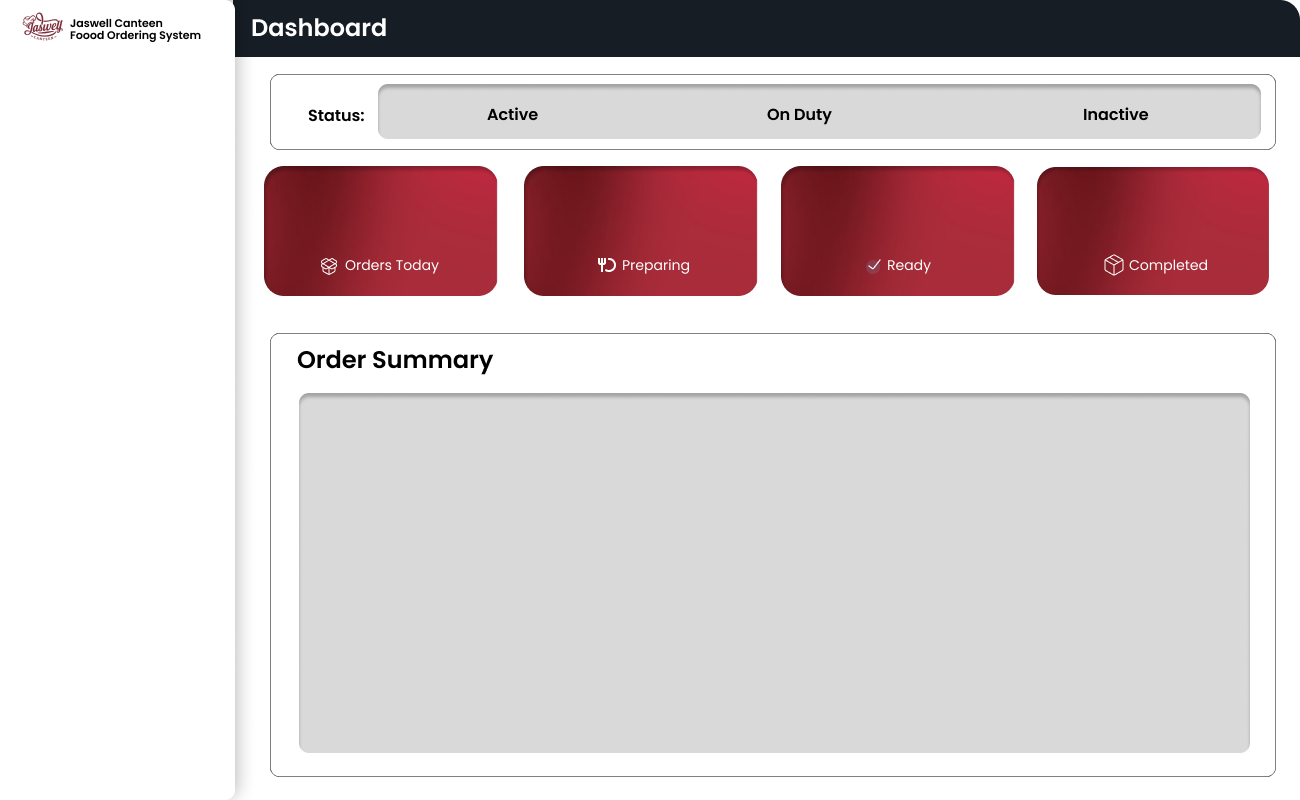
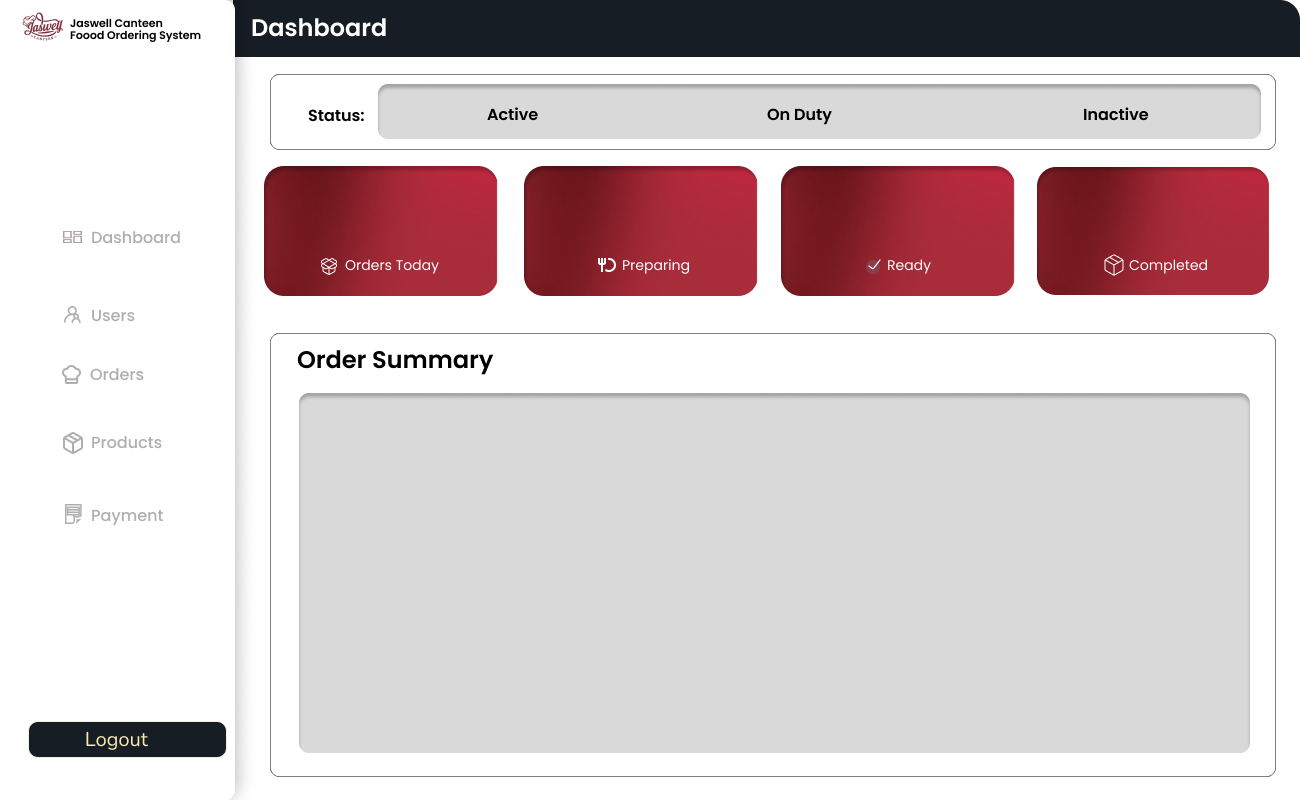
still in progress employeee

diff --git a/ADSFinalProject/src/adsfinalproject/EmployeeDashboard.java b/ADSFinalProject/src/adsfinalproject/EmployeeDashboard.java
@@ -195,8 +195,7 @@ public class EmployeeDashboard extends javax.swing.JFrame {
         pnlCustomer.setLayout(pnlCustomerLayout);
         pnlCustomerLayout.setHorizontalGroup(
             pnlCustomerLayout.createParallelGroup(javax.swing.GroupLayout.Alignment.LEADING)
-            .addGroup(pnlCustomerLayout.createSequentialGroup()
-                .addGap(230, 230, 230)
+            .addGroup(javax.swing.GroupLayout.Alignment.TRAILING, pnlCustomerLayout.createSequentialGroup()
                 .addComponent(jLabel5, javax.swing.GroupLayout.DEFAULT_SIZE, javax.swing.GroupLayout.DEFAULT_SIZE, Short.MAX_VALUE)
                 .addContainerGap())
         );
@@ -215,8 +214,7 @@ public class EmployeeDashboard extends javax.swing.JFrame {
         pnlPayment.setLayout(pnlPaymentLayout);
         pnlPaymentLayout.setHorizontalGroup(
             pnlPaymentLayout.createParallelGroup(javax.swing.GroupLayout.Alignment.LEADING)
-            .addGroup(pnlPaymentLayout.createSequentialGroup()
-                .addGap(230, 230, 230)
+            .addGroup(javax.swing.GroupLayout.Alignment.TRAILING, pnlPaymentLayout.createSequentialGroup()
                 .addComponent(jLabel2, javax.swing.GroupLayout.DEFAULT_SIZE, javax.swing.GroupLayout.DEFAULT_SIZE, Short.MAX_VALUE)
                 .addContainerGap())
         );
@@ -235,8 +233,7 @@ public class EmployeeDashboard extends javax.swing.JFrame {
         pnlDashboard.setLayout(pnlDashboardLayout);
         pnlDashboardLayout.setHorizontalGroup(
             pnlDashboardLayout.createParallelGroup(javax.swing.GroupLayout.Alignment.LEADING)
-            .addGroup(pnlDashboardLayout.createSequentialGroup()
-                .addGap(230, 230, 230)
+            .addGroup(javax.swing.GroupLayout.Alignment.TRAILING, pnlDashboardLayout.createSequentialGroup()
                 .addComponent(jLabel4, javax.swing.GroupLayout.DEFAULT_SIZE, javax.swing.GroupLayout.DEFAULT_SIZE, Short.MAX_VALUE)
                 .addContainerGap())
         );
@@ -249,7 +246,7 @@ public class EmployeeDashboard extends javax.swing.JFrame {
 
         pnlOrder.setBackground(new java.awt.Color(255, 255, 255));
 
-        jLabel6.setIcon(new javax.swing.ImageIcon(getClass().getResource("/design/aorderr.png"))); // NOI18N
+        jLabel6.setIcon(new javax.swing.ImageIcon(getClass().getResource("/design/orders.png"))); // NOI18N
 
         pnlCreateOrder.setBackground(new java.awt.Color(255, 255, 255));
 
@@ -304,7 +301,7 @@ public class EmployeeDashboard extends javax.swing.JFrame {
 
         pnlProduct.setBackground(new java.awt.Color(255, 255, 255));
 
-        jLabel7.setIcon(new javax.swing.ImageIcon(getClass().getResource("/design/AProduct.png"))); // NOI18N
+        jLabel7.setIcon(new javax.swing.ImageIcon(getClass().getResource("/design/Producttt.png"))); // NOI18N
 
         javax.swing.GroupLayout pnlProductLayout = new javax.swing.GroupLayout(pnlProduct);
         pnlProduct.setLayout(pnlProductLayout);
@@ -328,6 +325,7 @@ public class EmployeeDashboard extends javax.swing.JFrame {
 
     private void btnUsersActionPerformed(java.awt.event.ActionEvent evt) {//GEN-FIRST:event_btnUsersActionPerformed
         setActive("users");
+        jPanel1.setVisible(true);
         CardLayout cl = (CardLayout)(jPanel4.getLayout());
         cl.show(jPanel4, "users");
     }//GEN-LAST:event_btnUsersActionPerformed
@@ -342,12 +340,14 @@ public class EmployeeDashboard extends javax.swing.JFrame {
 
     private void btnPaymentActionPerformed(java.awt.event.ActionEvent evt) {//GEN-FIRST:event_btnPaymentActionPerformed
         setActive("supplier");
+        jPanel1.setVisible(true);
         CardLayout cl = (CardLayout)(jPanel4.getLayout());
         cl.show(jPanel4, "payment");
     }//GEN-LAST:event_btnPaymentActionPerformed
 
     private void btnProductsActionPerformed(java.awt.event.ActionEvent evt) {//GEN-FIRST:event_btnProductsActionPerformed
         setActive("product");
+        jPanel1.setVisible(true);
         CardLayout cl = (CardLayout)(jPanel4.getLayout());
         cl.show(jPanel4, "product");
 
@@ -355,12 +355,14 @@ public class EmployeeDashboard extends javax.swing.JFrame {
 
     private void btnOrdersActionPerformed(java.awt.event.ActionEvent evt) {//GEN-FIRST:event_btnOrdersActionPerformed
         setActive("order");
+        jPanel1.setVisible(true);
         CardLayout cl = (CardLayout)(jPanel4.getLayout());
         cl.show(jPanel4, "orders");
     }//GEN-LAST:event_btnOrdersActionPerformed
 
     private void btnDashboardActionPerformed(java.awt.event.ActionEvent evt) {//GEN-FIRST:event_btnDashboardActionPerformed
         setActive("dashboard");
+        jPanel1.setVisible(true);
         CardLayout cl = (CardLayout)(jPanel4.getLayout());
         cl.show(jPanel4, "dashboard");
     }//GEN-LAST:event_btnDashboardActionPerformed
